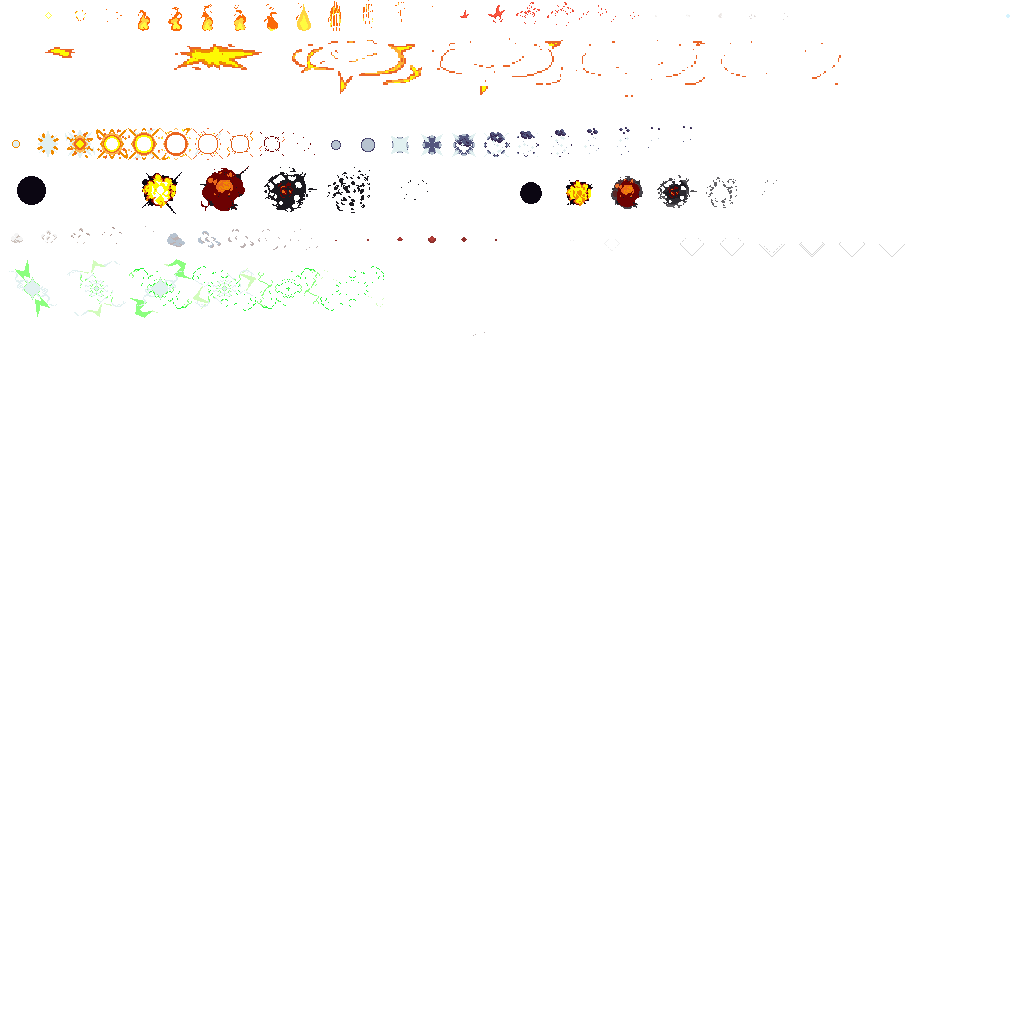
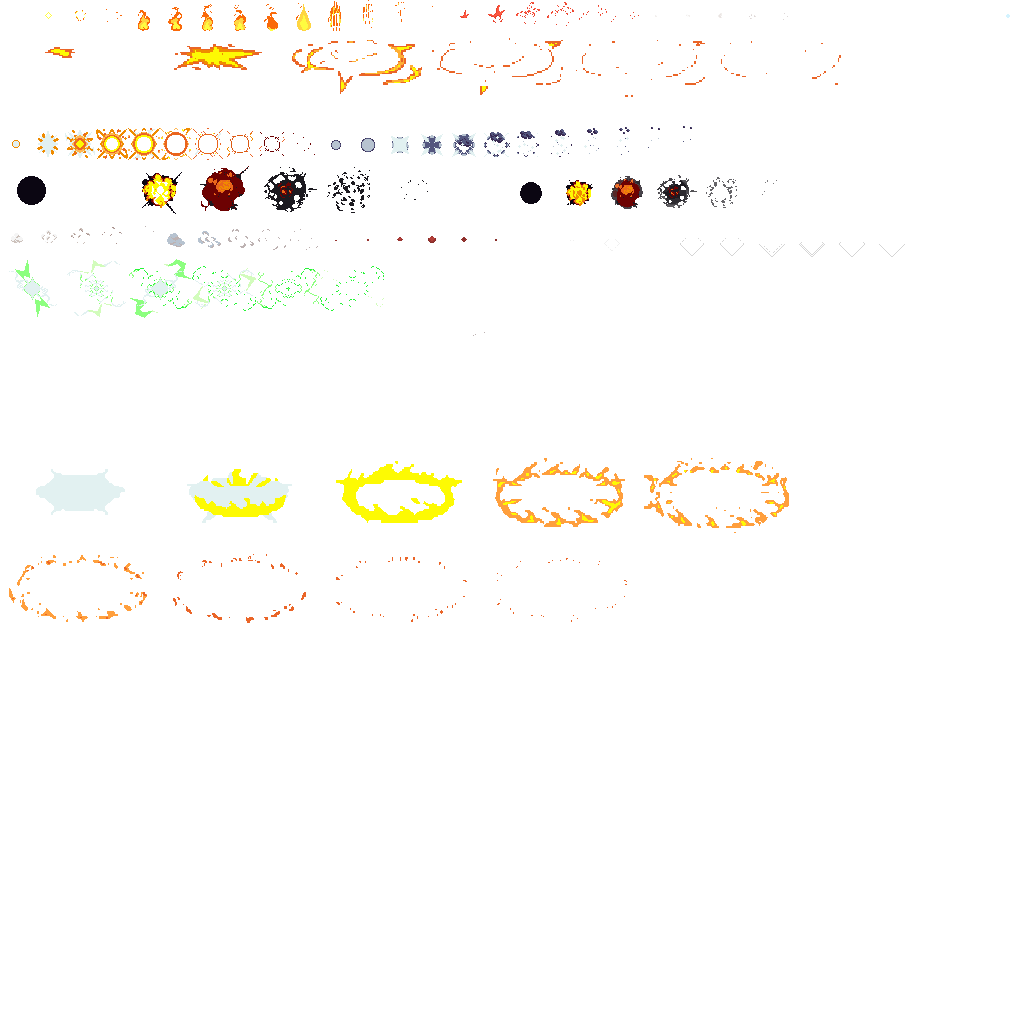
Adds new overheat blast effect

diff --git a/Assets/Scripts/Game.Player.cs b/Assets/Scripts/Game.Player.cs
@@ -233,12 +233,9 @@ public partial class Game {
         }
         
         if (demonEye.equiped.blast.TryGetValue(out var blast) && player.consecutiveShotCount > 0 && player.consecutiveShotCount % blast.numshotsUntilOverheat == 0) {
-            Vector2 spawnPos = OffsetY(player.position, 0.1f);
-            
-            Entity expEntity = SpawnEntity(entityPools.blast, spawnPos, Quaternion.identity); 
-            DestroyEntity(expEntity, CurrentClipLength(expEntity.animator));
-            
-            List<Collider2D> cols = Physics.OverlapCircle(spawnPos, blast.radius, Masks.EnemyMask);
+            Vector2 spawnPos = OffsetY(player.position, 0.25f);
+            SpawnEntityOneShot(entityPools.blast, spawnPos, Quaternion.identity); 
+            List<Collider2D> cols = Physics.OverlapCircle(player.position, blast.radius, Masks.EnemyMask);
             foreach (Collider2D col in cols) {
                 Enemy enemy = entities.lookup[col.gameObject] as Enemy;
                 int damage = Mathf.RoundToInt(GetBaseDamage() * GetDamageMultiplierOnEnemy(enemy) * blast.damageMulti);
